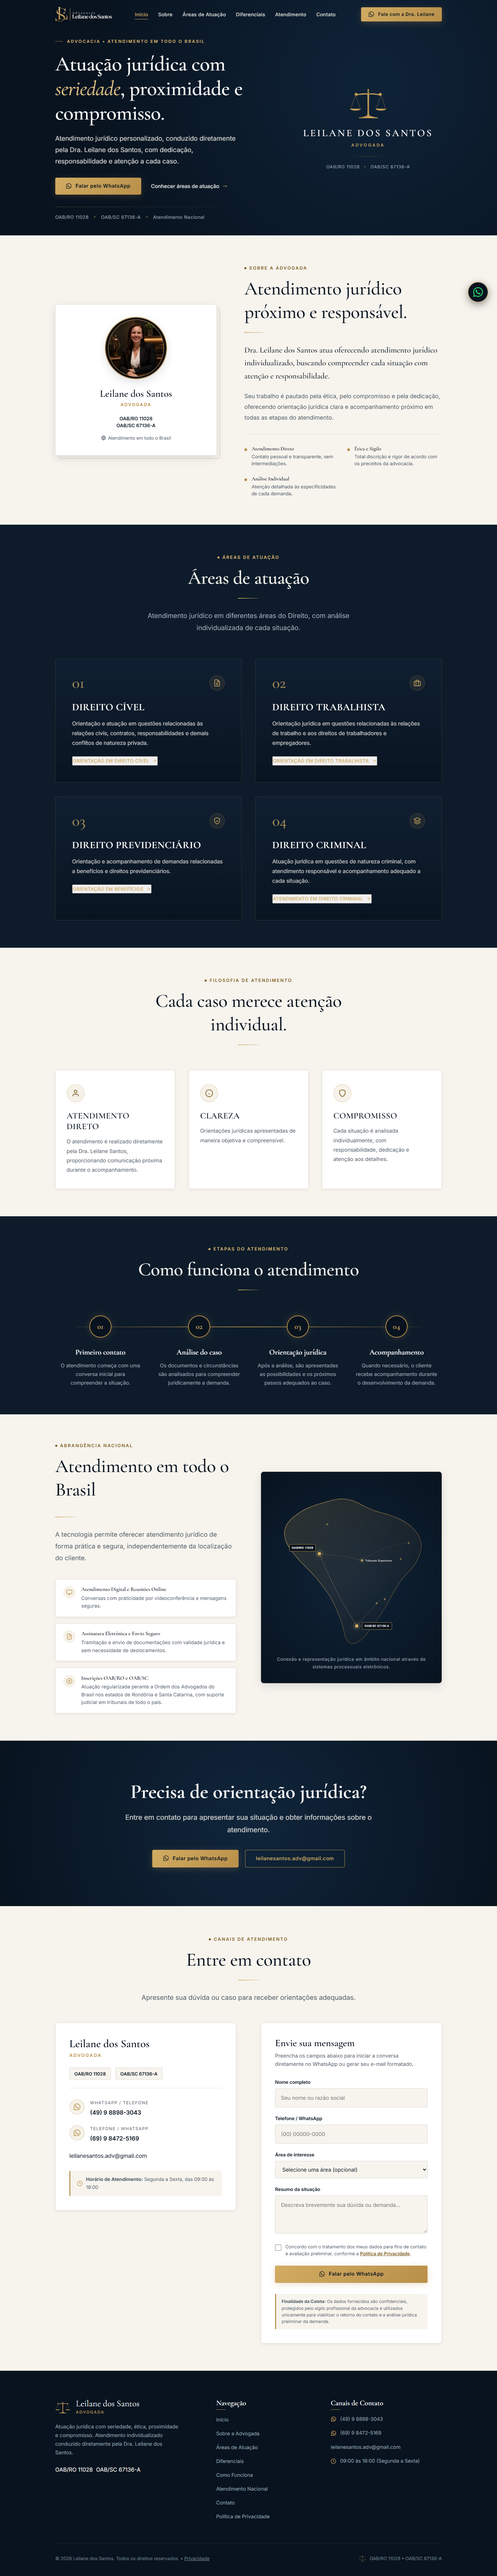
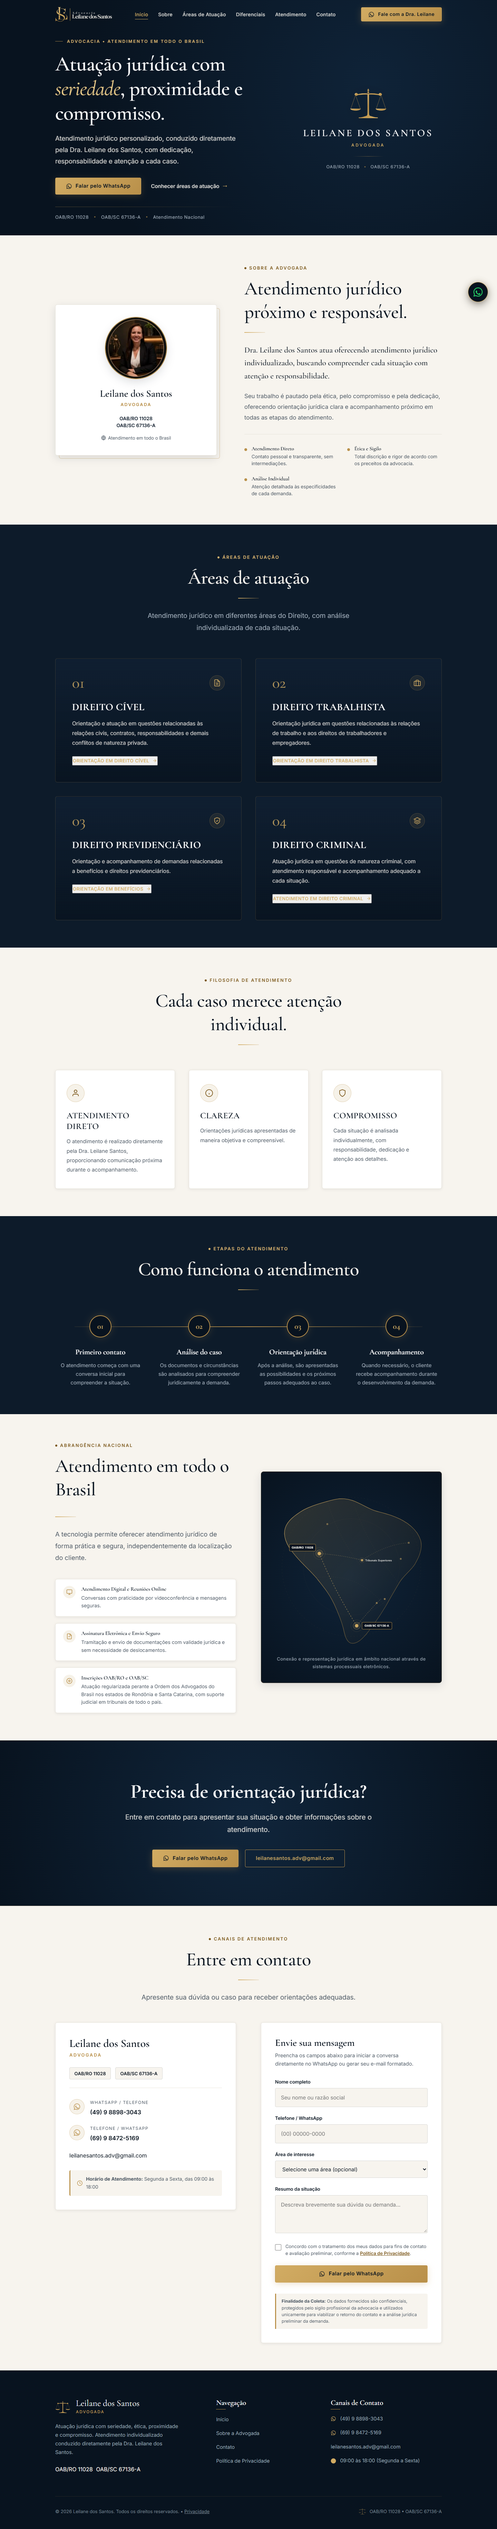
fix: substitui icones font-awesome por svgs nativos do whatsapp e ajusta csp
- Converte todos os icones do WhatsApp para SVGs inline nativos
- Elimina bloqueio de Content-Security-Policy (CSP) na Vercel e Netlify
- Remove dependencia externa pesada de CSS do CDN da Font Awesome
- Permite explicitamente cdnjs em vercel.json e netlify.toml como fallback

diff --git a/index.html b/index.html
@@ -29,8 +29,6 @@
   <link rel="preconnect" href="https://fonts.gstatic.com" crossorigin>
   <link href="https://fonts.googleapis.com/css2?family=Cormorant+Garamond:ital,wght@0,400;0,500;0,600;0,700;1,400;1,600&family=Inter:wght@300;400;500;600;700&family=Playfair+Display:ital,wght@0,500;0,600;1,400&display=swap" rel="stylesheet">
 
-  <!-- Font Awesome 6 (Ícones Oficiais) -->
-  <link rel="stylesheet" href="https://cdnjs.cloudflare.com/ajax/libs/font-awesome/6.5.1/css/all.min.css" integrity="sha512-DTOQO9RWCH3ppGqcWaEA1BIZOC6xxalwEsw9c2QQeAIftl+Vegovlnee1c9QX4TctnWMn13TZye+giMm8e2LwA==" crossorigin="anonymous" referrerpolicy="no-referrer">
 
   <!-- Estilos Principais -->
   <link rel="stylesheet" href="/src/style.css">
@@ -90,7 +88,7 @@
       <!-- Botão Destaque Desktop (com ofuscação segura) -->
       <div class="nav-cta">
         <a href="#contato" data-obf-type="wa1" target="_blank" rel="noopener noreferrer" class="btn btn-gold btn-sm">
-          <i class="fa-brands fa-whatsapp" aria-hidden="true"></i>
+          <svg class="btn-icon-svg" viewBox="0 0 24 24" width="18" height="18" fill="currentColor" aria-hidden="true"><path d="M12.04 2c-5.46 0-9.91 4.45-9.91 9.91 0 1.75.46 3.45 1.32 4.95L2.05 22l5.25-1.38c1.45.79 3.08 1.21 4.74 1.21 5.46 0 9.91-4.45 9.91-9.91 0-2.65-1.03-5.14-2.9-7.01A9.816 9.816 0 0 0 12.04 2zm.01 1.67c2.2 0 4.26.86 5.82 2.42a8.225 8.225 0 0 1 2.41 5.83c0 4.54-3.7 8.24-8.24 8.24-1.48 0-2.93-.4-4.2-1.15l-.3-.18-3.12.82.83-3.04-.2-.31a8.196 8.196 0 0 1-1.26-4.38c0-4.54 3.7-8.24 8.24-8.24zm4.52 11.66c-.25-.13-1.47-.72-1.7-.81-.23-.08-.39-.12-.56.12-.17.25-.64.81-.79.97-.14.17-.29.19-.54.06-.25-.13-1.06-.39-2.02-1.25-.75-.67-1.26-1.5-1.41-1.75-.15-.25-.02-.38.11-.51.11-.11.25-.29.37-.43.12-.15.17-.25.25-.42.08-.17.04-.31-.02-.44-.06-.12-.56-1.34-.76-1.84-.2-.48-.41-.42-.56-.43h-.48c-.17 0-.44.06-.67.31-.23.25-.88.86-.88 2.1 0 1.24.9 2.44 1.03 2.61.12.17 1.77 2.71 4.3 3.79.6.26 1.07.41 1.44.53.61.19 1.16.17 1.6.1.49-.07 1.47-.6 1.68-1.18.21-.58.21-1.07.15-1.18-.07-.12-.23-.19-.48-.31z"/></svg>
           Fale com a Dra. Leilane
         </a>
       </div>
@@ -121,7 +119,8 @@
     </nav>
     <div class="mobile-drawer-footer">
       <a href="#contato" data-obf-type="wa1" target="_blank" rel="noopener noreferrer" class="btn btn-gold" style="width: 100%;">
-        Falar pelo WhatsApp
+        <svg class="btn-icon-svg" viewBox="0 0 24 24" width="18" height="18" fill="currentColor" aria-hidden="true"><path d="M12.04 2c-5.46 0-9.91 4.45-9.91 9.91 0 1.75.46 3.45 1.32 4.95L2.05 22l5.25-1.38c1.45.79 3.08 1.21 4.74 1.21 5.46 0 9.91-4.45 9.91-9.91 0-2.65-1.03-5.14-2.9-7.01A9.816 9.816 0 0 0 12.04 2zm.01 1.67c2.2 0 4.26.86 5.82 2.42a8.225 8.225 0 0 1 2.41 5.83c0 4.54-3.7 8.24-8.24 8.24-1.48 0-2.93-.4-4.2-1.15l-.3-.18-3.12.82.83-3.04-.2-.31a8.196 8.196 0 0 1-1.26-4.38c0-4.54 3.7-8.24 8.24-8.24zm4.52 11.66c-.25-.13-1.47-.72-1.7-.81-.23-.08-.39-.12-.56.12-.17.25-.64.81-.79.97-.14.17-.29.19-.54.06-.25-.13-1.06-.39-2.02-1.25-.75-.67-1.26-1.5-1.41-1.75-.15-.25-.02-.38.11-.51.11-.11.25-.29.37-.43.12-.15.17-.25.25-.42.08-.17.04-.31-.02-.44-.06-.12-.56-1.34-.76-1.84-.2-.48-.41-.42-.56-.43h-.48c-.17 0-.44.06-.67.31-.23.25-.88.86-.88 2.1 0 1.24.9 2.44 1.03 2.61.12.17 1.77 2.71 4.3 3.79.6.26 1.07.41 1.44.53.61.19 1.16.17 1.6.1.49-.07 1.47-.6 1.68-1.18.21-.58.21-1.07.15-1.18-.07-.12-.23-.19-.48-.31z"/></svg>
+        <span>Falar pelo WhatsApp</span>
       </a>
       <p class="mobile-oab-info">
         <strong>Leilane dos Santos</strong><br>
@@ -155,7 +154,7 @@
 
             <div class="hero-actions">
               <a href="#contato" data-obf-type="wa1" target="_blank" rel="noopener noreferrer" class="btn btn-gold hero-cta-btn" data-cta-context="Início - Atendimento Inicial">
-                <i class="fa-brands fa-whatsapp" aria-hidden="true"></i>
+                <svg class="btn-icon-svg" viewBox="0 0 24 24" width="18" height="18" fill="currentColor" aria-hidden="true"><path d="M12.04 2c-5.46 0-9.91 4.45-9.91 9.91 0 1.75.46 3.45 1.32 4.95L2.05 22l5.25-1.38c1.45.79 3.08 1.21 4.74 1.21 5.46 0 9.91-4.45 9.91-9.91 0-2.65-1.03-5.14-2.9-7.01A9.816 9.816 0 0 0 12.04 2zm.01 1.67c2.2 0 4.26.86 5.82 2.42a8.225 8.225 0 0 1 2.41 5.83c0 4.54-3.7 8.24-8.24 8.24-1.48 0-2.93-.4-4.2-1.15l-.3-.18-3.12.82.83-3.04-.2-.31a8.196 8.196 0 0 1-1.26-4.38c0-4.54 3.7-8.24 8.24-8.24zm4.52 11.66c-.25-.13-1.47-.72-1.7-.81-.23-.08-.39-.12-.56.12-.17.25-.64.81-.79.97-.14.17-.29.19-.54.06-.25-.13-1.06-.39-2.02-1.25-.75-.67-1.26-1.5-1.41-1.75-.15-.25-.02-.38.11-.51.11-.11.25-.29.37-.43.12-.15.17-.25.25-.42.08-.17.04-.31-.02-.44-.06-.12-.56-1.34-.76-1.84-.2-.48-.41-.42-.56-.43h-.48c-.17 0-.44.06-.67.31-.23.25-.88.86-.88 2.1 0 1.24.9 2.44 1.03 2.61.12.17 1.77 2.71 4.3 3.79.6.26 1.07.41 1.44.53.61.19 1.16.17 1.6.1.49-.07 1.47-.6 1.68-1.18.21-.58.21-1.07.15-1.18-.07-.12-.23-.19-.48-.31z"/></svg>
                 <span>Falar pelo WhatsApp</span>
               </a>
 
@@ -626,7 +625,7 @@
 
           <div class="cta-buttons">
             <a href="#contato" data-obf-type="wa1" target="_blank" rel="noopener noreferrer" class="btn btn-gold" data-cta-context="CTA Central - Orientação Geral">
-              <i class="fa-brands fa-whatsapp" aria-hidden="true"></i>
+              <svg class="btn-icon-svg" viewBox="0 0 24 24" width="18" height="18" fill="currentColor" aria-hidden="true"><path d="M12.04 2c-5.46 0-9.91 4.45-9.91 9.91 0 1.75.46 3.45 1.32 4.95L2.05 22l5.25-1.38c1.45.79 3.08 1.21 4.74 1.21 5.46 0 9.91-4.45 9.91-9.91 0-2.65-1.03-5.14-2.9-7.01A9.816 9.816 0 0 0 12.04 2zm.01 1.67c2.2 0 4.26.86 5.82 2.42a8.225 8.225 0 0 1 2.41 5.83c0 4.54-3.7 8.24-8.24 8.24-1.48 0-2.93-.4-4.2-1.15l-.3-.18-3.12.82.83-3.04-.2-.31a8.196 8.196 0 0 1-1.26-4.38c0-4.54 3.7-8.24 8.24-8.24zm4.52 11.66c-.25-.13-1.47-.72-1.7-.81-.23-.08-.39-.12-.56.12-.17.25-.64.81-.79.97-.14.17-.29.19-.54.06-.25-.13-1.06-.39-2.02-1.25-.75-.67-1.26-1.5-1.41-1.75-.15-.25-.02-.38.11-.51.11-.11.25-.29.37-.43.12-.15.17-.25.25-.42.08-.17.04-.31-.02-.44-.06-.12-.56-1.34-.76-1.84-.2-.48-.41-.42-.56-.43h-.48c-.17 0-.44.06-.67.31-.23.25-.88.86-.88 2.1 0 1.24.9 2.44 1.03 2.61.12.17 1.77 2.71 4.3 3.79.6.26 1.07.41 1.44.53.61.19 1.16.17 1.6.1.49-.07 1.47-.6 1.68-1.18.21-.58.21-1.07.15-1.18-.07-.12-.23-.19-.48-.31z"/></svg>
               Falar pelo WhatsApp
             </a>
 
@@ -676,7 +675,7 @@
                 <!-- WhatsApp / Telefone 1 -->
                 <a href="#contato" data-obf-type="wa1" target="_blank" rel="noopener noreferrer" class="contact-channel-item" aria-label="Contato via WhatsApp ou Telefone 1">
                   <div class="channel-icon-wrap" aria-hidden="true">
-                    <i class="fa-brands fa-whatsapp"></i>
+                    <svg viewBox="0 0 24 24" width="22" height="22" fill="currentColor"><path d="M12.04 2c-5.46 0-9.91 4.45-9.91 9.91 0 1.75.46 3.45 1.32 4.95L2.05 22l5.25-1.38c1.45.79 3.08 1.21 4.74 1.21 5.46 0 9.91-4.45 9.91-9.91 0-2.65-1.03-5.14-2.9-7.01A9.816 9.816 0 0 0 12.04 2zm.01 1.67c2.2 0 4.26.86 5.82 2.42a8.225 8.225 0 0 1 2.41 5.83c0 4.54-3.7 8.24-8.24 8.24-1.48 0-2.93-.4-4.2-1.15l-.3-.18-3.12.82.83-3.04-.2-.31a8.196 8.196 0 0 1-1.26-4.38c0-4.54 3.7-8.24 8.24-8.24zm4.52 11.66c-.25-.13-1.47-.72-1.7-.81-.23-.08-.39-.12-.56.12-.17.25-.64.81-.79.97-.14.17-.29.19-.54.06-.25-.13-1.06-.39-2.02-1.25-.75-.67-1.26-1.5-1.41-1.75-.15-.25-.02-.38.11-.51.11-.11.25-.29.37-.43.12-.15.17-.25.25-.42.08-.17.04-.31-.02-.44-.06-.12-.56-1.34-.76-1.84-.2-.48-.41-.42-.56-.43h-.48c-.17 0-.44.06-.67.31-.23.25-.88.86-.88 2.1 0 1.24.9 2.44 1.03 2.61.12.17 1.77 2.71 4.3 3.79.6.26 1.07.41 1.44.53.61.19 1.16.17 1.6.1.49-.07 1.47-.6 1.68-1.18.21-.58.21-1.07.15-1.18-.07-.12-.23-.19-.48-.31z"/></svg>
                   </div>
                   <div>
                     <div class="channel-label">WhatsApp / Telefone</div>
@@ -687,7 +686,7 @@
                 <!-- Telefone 2 / WhatsApp -->
                 <a href="#contato" data-obf-type="wa2" target="_blank" rel="noopener noreferrer" class="contact-channel-item" aria-label="Contato via WhatsApp ou Telefone 2">
                   <div class="channel-icon-wrap" aria-hidden="true">
-                    <i class="fa-brands fa-whatsapp"></i>
+                    <svg viewBox="0 0 24 24" width="22" height="22" fill="currentColor"><path d="M12.04 2c-5.46 0-9.91 4.45-9.91 9.91 0 1.75.46 3.45 1.32 4.95L2.05 22l5.25-1.38c1.45.79 3.08 1.21 4.74 1.21 5.46 0 9.91-4.45 9.91-9.91 0-2.65-1.03-5.14-2.9-7.01A9.816 9.816 0 0 0 12.04 2zm.01 1.67c2.2 0 4.26.86 5.82 2.42a8.225 8.225 0 0 1 2.41 5.83c0 4.54-3.7 8.24-8.24 8.24-1.48 0-2.93-.4-4.2-1.15l-.3-.18-3.12.82.83-3.04-.2-.31a8.196 8.196 0 0 1-1.26-4.38c0-4.54 3.7-8.24 8.24-8.24zm4.52 11.66c-.25-.13-1.47-.72-1.7-.81-.23-.08-.39-.12-.56.12-.17.25-.64.81-.79.97-.14.17-.29.19-.54.06-.25-.13-1.06-.39-2.02-1.25-.75-.67-1.26-1.5-1.41-1.75-.15-.25-.02-.38.11-.51.11-.11.25-.29.37-.43.12-.15.17-.25.25-.42.08-.17.04-.31-.02-.44-.06-.12-.56-1.34-.76-1.84-.2-.48-.41-.42-.56-.43h-.48c-.17 0-.44.06-.67.31-.23.25-.88.86-.88 2.1 0 1.24.9 2.44 1.03 2.61.12.17 1.77 2.71 4.3 3.79.6.26 1.07.41 1.44.53.61.19 1.16.17 1.6.1.49-.07 1.47-.6 1.68-1.18.21-.58.21-1.07.15-1.18-.07-.12-.23-.19-.48-.31z"/></svg>
                   </div>
                   <div>
                     <div class="channel-label">Telefone / WhatsApp</div>
@@ -777,7 +776,7 @@
 
                 <div class="form-actions">
                   <button type="button" id="btnSendWhatsApp" class="btn btn-gold">
-                    <i class="fa-brands fa-whatsapp" aria-hidden="true"></i>
+                    <svg class="btn-icon-svg" viewBox="0 0 24 24" width="18" height="18" fill="currentColor" aria-hidden="true"><path d="M12.04 2c-5.46 0-9.91 4.45-9.91 9.91 0 1.75.46 3.45 1.32 4.95L2.05 22l5.25-1.38c1.45.79 3.08 1.21 4.74 1.21 5.46 0 9.91-4.45 9.91-9.91 0-2.65-1.03-5.14-2.9-7.01A9.816 9.816 0 0 0 12.04 2zm.01 1.67c2.2 0 4.26.86 5.82 2.42a8.225 8.225 0 0 1 2.41 5.83c0 4.54-3.7 8.24-8.24 8.24-1.48 0-2.93-.4-4.2-1.15l-.3-.18-3.12.82.83-3.04-.2-.31a8.196 8.196 0 0 1-1.26-4.38c0-4.54 3.7-8.24 8.24-8.24zm4.52 11.66c-.25-.13-1.47-.72-1.7-.81-.23-.08-.39-.12-.56.12-.17.25-.64.81-.79.97-.14.17-.29.19-.54.06-.25-.13-1.06-.39-2.02-1.25-.75-.67-1.26-1.5-1.41-1.75-.15-.25-.02-.38.11-.51.11-.11.25-.29.37-.43.12-.15.17-.25.25-.42.08-.17.04-.31-.02-.44-.06-.12-.56-1.34-.76-1.84-.2-.48-.41-.42-.56-.43h-.48c-.17 0-.44.06-.67.31-.23.25-.88.86-.88 2.1 0 1.24.9 2.44 1.03 2.61.12.17 1.77 2.71 4.3 3.79.6.26 1.07.41 1.44.53.61.19 1.16.17 1.6.1.49-.07 1.47-.6 1.68-1.18.21-.58.21-1.07.15-1.18-.07-.12-.23-.19-.48-.31z"/></svg>
                     Falar pelo WhatsApp
                   </button>
 
@@ -835,12 +834,12 @@
           <h3 class="footer-col-title">Canais de Contato</h3>
           <div class="footer-contacts-list">
             <a href="#contato" data-obf-type="wa1" target="_blank" rel="noopener noreferrer" class="footer-contact-link" aria-label="Contato pelo WhatsApp 1">
-              <i class="fa-brands fa-whatsapp" aria-hidden="true"></i>
+              <svg viewBox="0 0 24 24" width="16" height="16" fill="currentColor" aria-hidden="true"><path d="M12.04 2c-5.46 0-9.91 4.45-9.91 9.91 0 1.75.46 3.45 1.32 4.95L2.05 22l5.25-1.38c1.45.79 3.08 1.21 4.74 1.21 5.46 0 9.91-4.45 9.91-9.91 0-2.65-1.03-5.14-2.9-7.01A9.816 9.816 0 0 0 12.04 2zm.01 1.67c2.2 0 4.26.86 5.82 2.42a8.225 8.225 0 0 1 2.41 5.83c0 4.54-3.7 8.24-8.24 8.24-1.48 0-2.93-.4-4.2-1.15l-.3-.18-3.12.82.83-3.04-.2-.31a8.196 8.196 0 0 1-1.26-4.38c0-4.54 3.7-8.24 8.24-8.24zm4.52 11.66c-.25-.13-1.47-.72-1.7-.81-.23-.08-.39-.12-.56.12-.17.25-.64.81-.79.97-.14.17-.29.19-.54.06-.25-.13-1.06-.39-2.02-1.25-.75-.67-1.26-1.5-1.41-1.75-.15-.25-.02-.38.11-.51.11-.11.25-.29.37-.43.12-.15.17-.25.25-.42.08-.17.04-.31-.02-.44-.06-.12-.56-1.34-.76-1.84-.2-.48-.41-.42-.56-.43h-.48c-.17 0-.44.06-.67.31-.23.25-.88.86-.88 2.1 0 1.24.9 2.44 1.03 2.61.12.17 1.77 2.71 4.3 3.79.6.26 1.07.41 1.44.53.61.19 1.16.17 1.6.1.49-.07 1.47-.6 1.68-1.18.21-.58.21-1.07.15-1.18-.07-.12-.23-.19-.48-.31z"/></svg>
               <span data-obf-type="phone1">(49) 9 8898-3043</span>
             </a>
 
             <a href="#contato" data-obf-type="wa2" target="_blank" rel="noopener noreferrer" class="footer-contact-link" aria-label="Contato pelo WhatsApp 2">
-              <i class="fa-brands fa-whatsapp" aria-hidden="true"></i>
+              <svg viewBox="0 0 24 24" width="16" height="16" fill="currentColor" aria-hidden="true"><path d="M12.04 2c-5.46 0-9.91 4.45-9.91 9.91 0 1.75.46 3.45 1.32 4.95L2.05 22l5.25-1.38c1.45.79 3.08 1.21 4.74 1.21 5.46 0 9.91-4.45 9.91-9.91 0-2.65-1.03-5.14-2.9-7.01A9.816 9.816 0 0 0 12.04 2zm.01 1.67c2.2 0 4.26.86 5.82 2.42a8.225 8.225 0 0 1 2.41 5.83c0 4.54-3.7 8.24-8.24 8.24-1.48 0-2.93-.4-4.2-1.15l-.3-.18-3.12.82.83-3.04-.2-.31a8.196 8.196 0 0 1-1.26-4.38c0-4.54 3.7-8.24 8.24-8.24zm4.52 11.66c-.25-.13-1.47-.72-1.7-.81-.23-.08-.39-.12-.56.12-.17.25-.64.81-.79.97-.14.17-.29.19-.54.06-.25-.13-1.06-.39-2.02-1.25-.75-.67-1.26-1.5-1.41-1.75-.15-.25-.02-.38.11-.51.11-.11.25-.29.37-.43.12-.15.17-.25.25-.42.08-.17.04-.31-.02-.44-.06-.12-.56-1.34-.76-1.84-.2-.48-.41-.42-.56-.43h-.48c-.17 0-.44.06-.67.31-.23.25-.88.86-.88 2.1 0 1.24.9 2.44 1.03 2.61.12.17 1.77 2.71 4.3 3.79.6.26 1.07.41 1.44.53.61.19 1.16.17 1.6.1.49-.07 1.47-.6 1.68-1.18.21-.58.21-1.07.15-1.18-.07-.12-.23-.19-.48-.31z"/></svg>
               <span data-obf-type="phone2">(69) 9 8472-5169</span>
             </a>
 
@@ -881,7 +880,7 @@
        BOTÃO FLUTUANTE DE WHATSAPP
        ========================================================================== -->
   <a href="#contato" data-obf-type="wa1" target="_blank" rel="noopener noreferrer" class="floating-whatsapp" aria-label="Falar no WhatsApp com a Dra. Leilane dos Santos" title="Falar no WhatsApp com a Dra. Leilane">
-    <i class="fa-brands fa-whatsapp" aria-hidden="true"></i>
+    <svg viewBox="0 0 24 24" width="32" height="32" fill="currentColor" aria-hidden="true"><path d="M12.04 2c-5.46 0-9.91 4.45-9.91 9.91 0 1.75.46 3.45 1.32 4.95L2.05 22l5.25-1.38c1.45.79 3.08 1.21 4.74 1.21 5.46 0 9.91-4.45 9.91-9.91 0-2.65-1.03-5.14-2.9-7.01A9.816 9.816 0 0 0 12.04 2zm.01 1.67c2.2 0 4.26.86 5.82 2.42a8.225 8.225 0 0 1 2.41 5.83c0 4.54-3.7 8.24-8.24 8.24-1.48 0-2.93-.4-4.2-1.15l-.3-.18-3.12.82.83-3.04-.2-.31a8.196 8.196 0 0 1-1.26-4.38c0-4.54 3.7-8.24 8.24-8.24zm4.52 11.66c-.25-.13-1.47-.72-1.7-.81-.23-.08-.39-.12-.56.12-.17.25-.64.81-.79.97-.14.17-.29.19-.54.06-.25-.13-1.06-.39-2.02-1.25-.75-.67-1.26-1.5-1.41-1.75-.15-.25-.02-.38.11-.51.11-.11.25-.29.37-.43.12-.15.17-.25.25-.42.08-.17.04-.31-.02-.44-.06-.12-.56-1.34-.76-1.84-.2-.48-.41-.42-.56-.43h-.48c-.17 0-.44.06-.67.31-.23.25-.88.86-.88 2.1 0 1.24.9 2.44 1.03 2.61.12.17 1.77 2.71 4.3 3.79.6.26 1.07.41 1.44.53.61.19 1.16.17 1.6.1.49-.07 1.47-.6 1.68-1.18.21-.58.21-1.07.15-1.18-.07-.12-.23-.19-.48-.31z"/></svg>
   </a>
 
   <!-- Script Modular -->

diff --git a/src/style.css b/src/style.css
@@ -323,6 +323,7 @@ button, input, textarea, select {
 }
 
 .btn-icon-svg,
+.btn svg,
 .btn i.fa-brands,
 .btn i.fa-solid {
   width: 18px;
@@ -1543,6 +1544,7 @@ button, input, textarea, select {
   align-items: center;
   justify-content: center;
   line-height: 1;
+  fill: currentColor;
 }
 
 .channel-label {
@@ -1942,6 +1944,7 @@ button, input, textarea, select {
   align-items: center;
   justify-content: center;
   line-height: 1;
+  fill: currentColor;
 }
 
 .footer-bottom {
